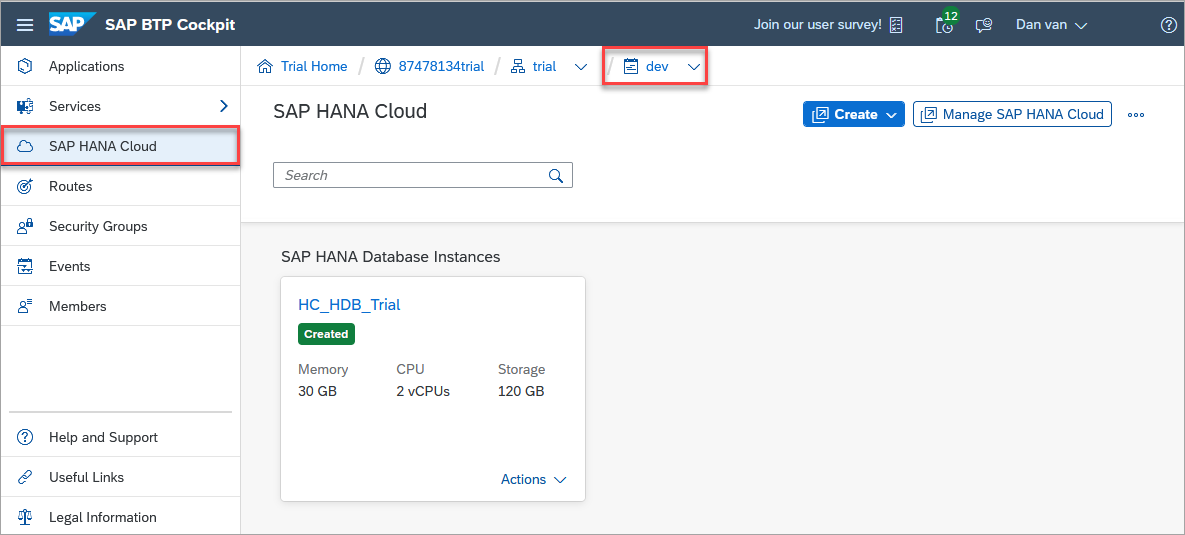
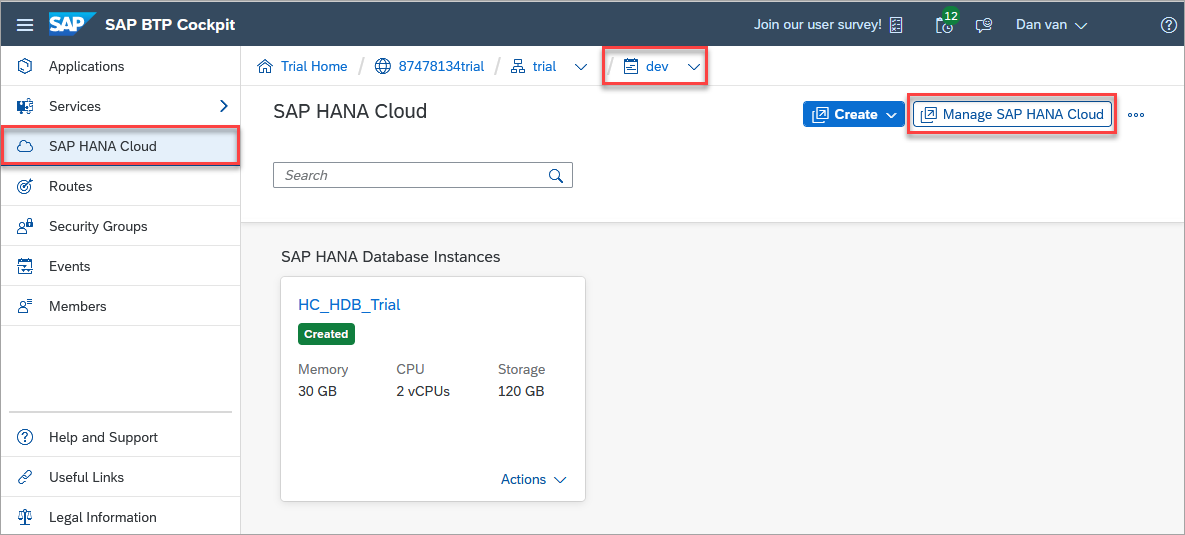
further updates to project creation

Changed region(s): [[0.7494, 0.1495, 0.9679, 0.2692]]

diff --git a/exercises/business_app_studio/ex2/README.md b/exercises/business_app_studio/ex2/README.md
@@ -8,7 +8,7 @@ This exercise will demonstrate how to create a project containing tables, a calc
 
     ![](images/welcome.png)
 
-    > Alternatively, select the View, Find Command menu (or Fn F1) to open the command palette and search for SAP HANA and select the option SAP HANA: Getting Started.
+    > Alternatively, select the menu **View**, **Find Command** (or Fn F1) to open the command palette and search for **SAP HANA** and select the option **SAP HANA: Getting Started**.
     >
     >![](images/getting-started.png)
 
@@ -47,12 +47,14 @@ This exercise will demonstrate how to create a project containing tables, a calc
     >The bottom panel can also be shown (or hidden) by selecting View, Toggle Bottom Panel or by the icon in the bottom right.
     >
     >![](images/output.png)
+    >
+    >*Above, notice that the HDI container and a service key has been created and that the container has been bound to the SAP HANA Cloud instance.*
 
 3. In the project explorer, open the generated project.
 
     ![](images/open-project.png)
 
-4. Examine the created project and result of the deployment.
+4. Examine the created project.
 
     ![](images/project.png)
 
@@ -60,7 +62,7 @@ This exercise will demonstrate how to create a project containing tables, a calc
     
     >Optionally right click on OPEN EDITOR and choose hide.  Hidden panes can be shown again using the ... menu in the top right of the Explorer.
 
-    At this point an HDI container has been created which is an isolated set of schemas within an SAP HANA Cloud database.  Multiple HDI containers can be included within one SAP HANA Cloud database.  This enables developers to have their own environment or for multiple instances of an application to use one SAP HANA Cloud database.  TODO Volker benefits (is it cost savings, better utilization, much quicker to deploy) 
+    At this point an HDI container has been created which is an isolated set of schemas within an SAP HANA Cloud database.  Multiple HDI containers can be included within one SAP HANA Cloud database.  This enables developers to have their own environment or for multiple instances of an application to use one SAP HANA Cloud database with isolated data.  TODO Volker benefits (is it cost savings, better utilization, much quicker to deploy) 
     
     The HDI container can be seen in both the SAP BTP Cockpit and within the add database dialog of the SAP HANA database explorer.
 
@@ -104,7 +106,7 @@ This exercise will demonstrate how to create a project containing tables, a calc
     ![](images/HDI-Schemas.png)
 
     - "HDI-container"  is the schema for the "RUN TIME" data,
-    - "#DI" is the "DESIGN TIME" schema and 
+    - "#DI" is the "DESIGN TIME" schema (or maybe Deployment Infrastructure? TODO Volker) and 
     - "#OO" is a technical schema for the "Object Owner"
 
     For each DT and RT user there will be additional schema that only belong to this container context. RT/DT users are created by building a new service or adding an additional "shared key".
@@ -116,17 +118,19 @@ This exercise will demonstrate how to create a project containing tables, a calc
 
     ![](images/git-init.png)
 
-2. Commit the contents of the project and provide a commit message such as initial commit.  The green U stands for unstaged.
+2. Commit the contents of the project and provide a commit message such as initial commit.  Optionally select **Always** to the question "Would you like to stage all your changes and commit them directly?" to simplify the check in process. 
 
     ![](images/commit.png)
 
+    *The green U stands for unstaged or files that have not yet been added to the repository.*
+
 ## Exercise 2.3 Add Database Artifacts
 
-1. In the Getting Started wizard, select Add Database Artifacts.
+1. In the Getting Started wizard, select **Add Database Artifacts**.
 
     ![](images/add-tables.png)
 
-2. Complete all the steps to create two tables (PASSENGERS and FLIGHTRESERVATION), deploy these into tables, and to open the SAP HANA database explorer to view the deployed tables.
+2. Complete all the steps to create two tables, deploy them, and to open the SAP HANA database explorer to view the deployed tables.
 
     ![](images/tables-in-dbx.png)
 
@@ -144,21 +148,26 @@ This exercise will demonstrate how to create a project containing tables, a calc
 
 ## Exercise 2.4 Load Data into your SAP HANA Cloud Application's Database Tables
 
-1. In the Getting Started wizard, select Load Data into your SAP HANA Cloud Application's Database Tables.
+1. In the Getting Started wizard, select **Load Data into your SAP HANA Cloud Application's Database Tables**.
 
 2. Complete all the steps to load data into the two previously created tables and to view the deployed data in the SAP HANA database explorer.
 
     ![](images/data-in-tables.png)
 
-## Exercise 2.5 Create a Calculation View for your Application
+    Notice also that the metadata of a table can be viewed by selecting Open.
+
+    ![](images/dbx-table-metadata.png)
+
+
+## Exercise 2.5 Create a Calculation View
 
 Calculation views allow the developers to express their intent instead of defining with SQL code how the data should be processed.
 
-1. In the Getting Started wizard, select Create a Calculation View for your Application.
+1. In the Getting Started wizard, select **Create a Calculation View for your Application**.
 
-2. Complete all the steps to create and deploy a calculation view and view its properties in the SAP HANA database explorer.  It may take a moment or two for the calculation view editor to load after its creation.  Note that the permissions to view its data will be granted in the next step.  Additional details on calculation views can be found at [Developing Data Models with SAP HANA Cloud](https://learning.sap.com/learning-journey/developing-applications-running-on-sap-btp-using-sap-hana-cloud/developing-data-models-with-sap-hana-cloud).
+2. Complete all the steps to create and deploy a calculation view and view its properties in the SAP HANA database explorer.  It may take a moment or two for the calculation view editor to load after its creation.  Note that the permissions to view its data will be granted in a subsequent step.  Additional details on calculation views can be found at [Developing Data Models with SAP HANA Cloud](https://learning.sap.com/learning-journey/developing-applications-running-on-sap-btp-using-sap-hana-cloud/developing-data-models-with-sap-hana-cloud).
 
-    There are various ways to open the Calculation View:
+    Once the calculation view has been deployed, there are various ways to view the data:
     
      -  Directly within the editor on the projection level
 
@@ -171,7 +180,7 @@ Calculation views allow the developers to express their intent instead of defini
 
 ## Exercise 2.6 Create Analytic Privileges for your Calculation View
 
- - 1. In the Getting Started wizard, select Create Analytic Privileges for your Calculation View and complete the steps.
+ 1. In the Getting Started wizard, select Create Analytic Privileges for your Calculation View and complete the steps.
  Deploy
 
 

diff --git a/README.md b/README.md
@@ -6,7 +6,7 @@ This repository contains the material for the SAP TechEd 2022 session called DA2
 
 ## Overview
 
-This session introduces attendees to the operations required for end-to-end administration and development of SAP HANA Cloud database instances using the tools offered in the SAP Business Technology Platform (SAP BTP).  Attendees will learn how to accomplish administration tasks such as instance monitoring and security management, as well as development tasks such as creating native SAP HANA artifacts and analyzing their performance.  Part 1 will introduce the tools and deploy some sample tables and calculation views.  Part 2 will demonstrate how to further administer these deployed artifacts.  
+This session introduces attendees to the operations required for end-to-end administration and development of SAP HANA Cloud database instances using the tools offered in the SAP Business Technology Platform (SAP BTP).  Attendees will learn how to accomplish administration tasks such as instance monitoring and security management, as well as development tasks such as creating native SAP HANA artifacts and analyzing their performance.  Part 1 will introduce the tools and deploy some sample tables, a calculation view, and a stored procedure.  Part 2 will demonstrate how to further administer these deployed artifacts.  
 
 Optional content can be skipped and will have (Optional) in its title.  
 >Content appearing in this format is for additional information and does not need to be followed.
@@ -14,24 +14,24 @@ Optional content can be skipped and will have (Optional) in its title.
 
 ## Requirements
 
-To complete this workshop, you need access to an SAP BTP account. You can access SAP HANA Cloud from within SAP BTP and you can use a trial, free tier,  or productive version of SAP HANA Cloud.  **This workshop assumes that you already have a SAP BTP account and a SAP HANA Cloud database.**  If not, you can register for free at https://www.sap.com/cmp/td/sap-hana-cloud-trial.html.  The exercises make use of a trial account, but a [free tier](https://developers.sap.com/tutorials/btp-free-tier-account.html) account could also be used.  A benefit of using free tier is that the account can be upgraded to a paid service plan without having to re-create the account. 
+To complete this workshop, you need access to an SAP BTP account. You can access SAP HANA Cloud from within SAP BTP and you can use a trial, free tier,  or productive version of SAP HANA Cloud.  **This workshop assumes that you already have a SAP BTP account and a SAP HANA Cloud database.**  If not, you can register for free at https://www.sap.com/cmp/td/sap-hana-cloud-trial.html.  The exercises make use of a **trial account**, but a [free tier](https://developers.sap.com/tutorials/btp-free-tier-account.html) account can also be used.  A benefit of using free tier is that the account can be upgraded to a paid service plan without having to re-create the account.
 
 In your SAP HANA Cloud account, perform the following steps:
 
 1.  Open the [welcome page](https://account.hanatrial.ondemand.com/trial/#/home/trial) and go to your trial account.
     ![](images/go-to-trial.png)
-2.	Enter the subaccount and then select the dev space
-3.	Click SAP HANA Cloud from the left navigation bar
+2.	Enter the subaccount and then select the dev space.
+3.	Click SAP HANA Cloud from the left navigation bar.
 4.	Click the button Create Instance in the top right and select SAP HANA 
 Database to invoke the Create Instance wizard.  
     > Only one instance of a HANA Cloud database can be created in trial or free tier accounts.  If you already have a SAP HANA Cloud database instance created, it can be used.
     
     ![](images/create-hana-instance.png)
-5.  Choose SAP HANA Cloud, SAP HANA Database and click the button Next Step
-6.	Enter DEMO_HANA_DB for the instance name
-7.	Enter and confirm your administrator password – ***PLEASE REMEMBER IT AND/OR WRITE IT DOWN!***
+5.  Choose SAP HANA Cloud, SAP HANA Database and click the button Next Step.
+6.	Enter DEMO_HANA_DB for the instance name.
+7.	Enter and confirm your administrator password – ***PLEASE REMEMBER IT AND/OR WRITE IT DOWN!***.
 8.  For trial systems, consider changing the allowed connections option to **Allow all connections**.  The rest of the values can be left as a default.
-9.	Complete the wizard
+9.	Complete the wizard.
 
     A new SAP HANA Cloud instance will be created, and this process may take  approx. 10 minutes.  The frequency of updates to the page can be set using the auto-refresh feature in the top right.  Once the instance has been created, its status will change to RUNNING.
 

diff --git a/exercises/sap_btp/ex1/README.md b/exercises/sap_btp/ex1/README.md
@@ -7,11 +7,11 @@ This exercise will provide a brief overview of the SAP BTP and demonstrate how t
     ![](images/BTP.png)
 
 
-2. The SAP BTP platform is organized by a global account, one or more subaccounts, if Cloud Foundry is enabled, a Cloud Foundry organization and one or more spaces.  
+2. The SAP BTP platform is organized by a global account, one or more subaccounts, if Cloud Foundry is enabled, a Cloud Foundry organization, and one or more spaces.  
 
     ![](images/btp-structure.png)
 
-    Subaccounts are created in a specific data center such as the one shown below.
+    Subaccounts are created in a specific data center such as the one shown below (AWS, US East).
 
     ![](images/subaccount.png)
 
@@ -19,11 +19,11 @@ This exercise will provide a brief overview of the SAP BTP and demonstrate how t
     
     ![](images/cloud-foundry.png)
 
-    In the subaccount above, note that there is an API endpoint shown which will be used in a subsequent exercises to interact with the environment.
+    In the subaccount above, note that there is an API endpoint which will be used in a subsequent exercises.
 
     Environments constitute the actual platform-as-a-service offering of SAP BTP that allows for the development and administration of business applications.  We will be working within the Cloud Foundry environment in this workshop.  Additional details on environments can be found at [Environments](https://help.sap.com/docs/BTP/65de2977205c403bbc107264b8eccf4b/15547f7e7ecd47ee9fa052b0e18c7b0a.html).
 
-    Once you have navigated to a space, details about any SAP HANA Cloud databases or data lake instances can be seen and a link is provided to open SAP HANA Cloud Central which is used to create and manage database instances.
+    Once you have navigated to a space, details about any SAP HANA Cloud databases or data lake instances can be seen and a link (Manage SAP HANA Cloud) is provided to open SAP HANA Cloud Central which is used to create and manage database instances.
 
     ![](images/cloud-foundry-space.png)
 

diff --git a/exercises/database_explorer/ex4/README.md b/exercises/database_explorer/ex4/README.md
@@ -4,15 +4,34 @@
 
 ## Exercise 4.1 Grant Container Admin
 
-1. 
+1. Additional actions such as import/export and viewing the HDI containers belonging to a SAP HANA database can be enabled by granting additional privileges.  Execute the below SQL.
+
+    ```SQL
+    CREATE LOCAL TEMPORARY COLUMN TABLE #PRIVILEGES LIKE _SYS_DI.TT_API_PRIVILEGES;
+    INSERT INTO #PRIVILEGES (PRINCIPAL_NAME, PRIVILEGE_NAME, OBJECT_NAME)  
+        SELECT 'DBADMIN', PRIVILEGE_NAME, OBJECT_NAME 
+            FROM _SYS_DI.T_DEFAULT_CONTAINER_GROUP_ADMIN_PRIVILEGES;
+    CALL _SYS_DI.GRANT_CONTAINER_GROUP_API_PRIVILEGES('BROKER_CG', #PRIVILEGES, _SYS_DI.T_NO_PARAMETERS, ?, ?, ?);
+    DROP TABLE #PRIVILEGES;
+    ```
+
+    Notice that now the list of HDI containers appears.
+
+    ![](images/grahttps://help.sap.com/docs/HANA_CLOUD_DATABASE/c2cc2e43458d4abda6788049c58143dc/9a6bf8dc816e4b128ecec7580686236e.htmlnted-priv.png)
+
+    Addiional details on this topic can be found at [Create an SAP HDI Administrator]().
 
 ## Exercise 4.2 Export an HDI Container
 
-1.
+1. TODO
+
+    The above demonstrates using the wizard.  The [Export an SAP HDI Container for Copy Purposes](https://help.sap.com/docs/HANA_CLOUD_DATABASE/c2cc2e43458d4abda6788049c58143dc/c25ee286cee5496cb96fdf5875f444a2.html) provides details on executing the same action using SQL.
 
 ## Exercise 4.3 Import an HDI Container
 
-1.
+1.  TODO
+
+    The above demonstrates using the wizard.  The [Export an SAP HDI Container for Copy Purposes](https://help.sap.com/docs/HANA_CLOUD_DATABASE/c2cc2e43458d4abda6788049c58143dc/c25ee286cee5496cb96fdf5875f444a2.html) provides details on executing the same action using SQL.
 
 This concludes the exercise on import and export.  In the next exercise ...
 

diff --git a/exercises/business_app_studio/ex1/README.md b/exercises/business_app_studio/ex1/README.md
@@ -30,13 +30,13 @@ This exercise will demonstrate how to open the SAP Business Application Studio (
     >
     >![](images/re-open-welcome.png)
 
-    The SAP Business Application Studio is a browser-based application, so there is no need to install or update software.  You can continue to work on your project from any computer.
+    The SAP Business Application Studio is a browser-based application, so there is no need to install or update software.  You can continue to work on your project later from any computer.
 
-6. The preferences can be viewed or set via File, Preferences or the gear icon in the bottom left.  Set the workspace project creation behavior preference to open in a stand-alone folder as shown below.
+6. The preferences can be viewed or set via **File**, **Preferences** or the gear icon in the bottom left.  Set the workspace project creation behavior preference to open in a stand-alone folder as shown below.
 
     ![](images/preferences.png)
 
-7. A color theme can be set using File, Preferences, Color Theme.
+7. Your color theme of choice can be set using **File**, **Preferences**, **Color Theme**.
 
     ![](images/color-theme.png)
 
@@ -48,7 +48,7 @@ This exercise will demonstrate how to open the SAP Business Application Studio (
 
     ![](images/git-panel.png)
 
-9. A terminal can be opened by selecting Terminal, New Terminal.
+9. A terminal can be opened by selecting **Terminal**, **New Terminal**.
 
     ![](images/terminal.png)
 

diff --git a/exercises/hana_cockpit/ex3/README.md b/exercises/hana_cockpit/ex3/README.md
@@ -1,4 +1,4 @@
-# Exercise 4: Managing Alerts
+# Exercise 3: Managing Alerts
 
 As an administrator, you actively monitor the status of the system, its services, and the consumption of system resources. However, you are also alerted of critical situations, for example: memory utilization is reaching a critical level, or a server has stopped.
 
@@ -38,4 +38,8 @@ In this exercise, you'll examine the Alerts card, drill-down to obtain more info
 
 9. Click the **Back** button at the top left to return to the Database Overview page.
 
-Continue to [Exercise 4: Monitoring Memory Usage](../ex4)
+## Summary
+
+You now have ...  The next exercise provides an overview of the SAP HANA database explorer.
+
+Continue to [Exercise 1: Launch the SAP HANA Database Explorer](../../database_explorer/ex1/README.md)
